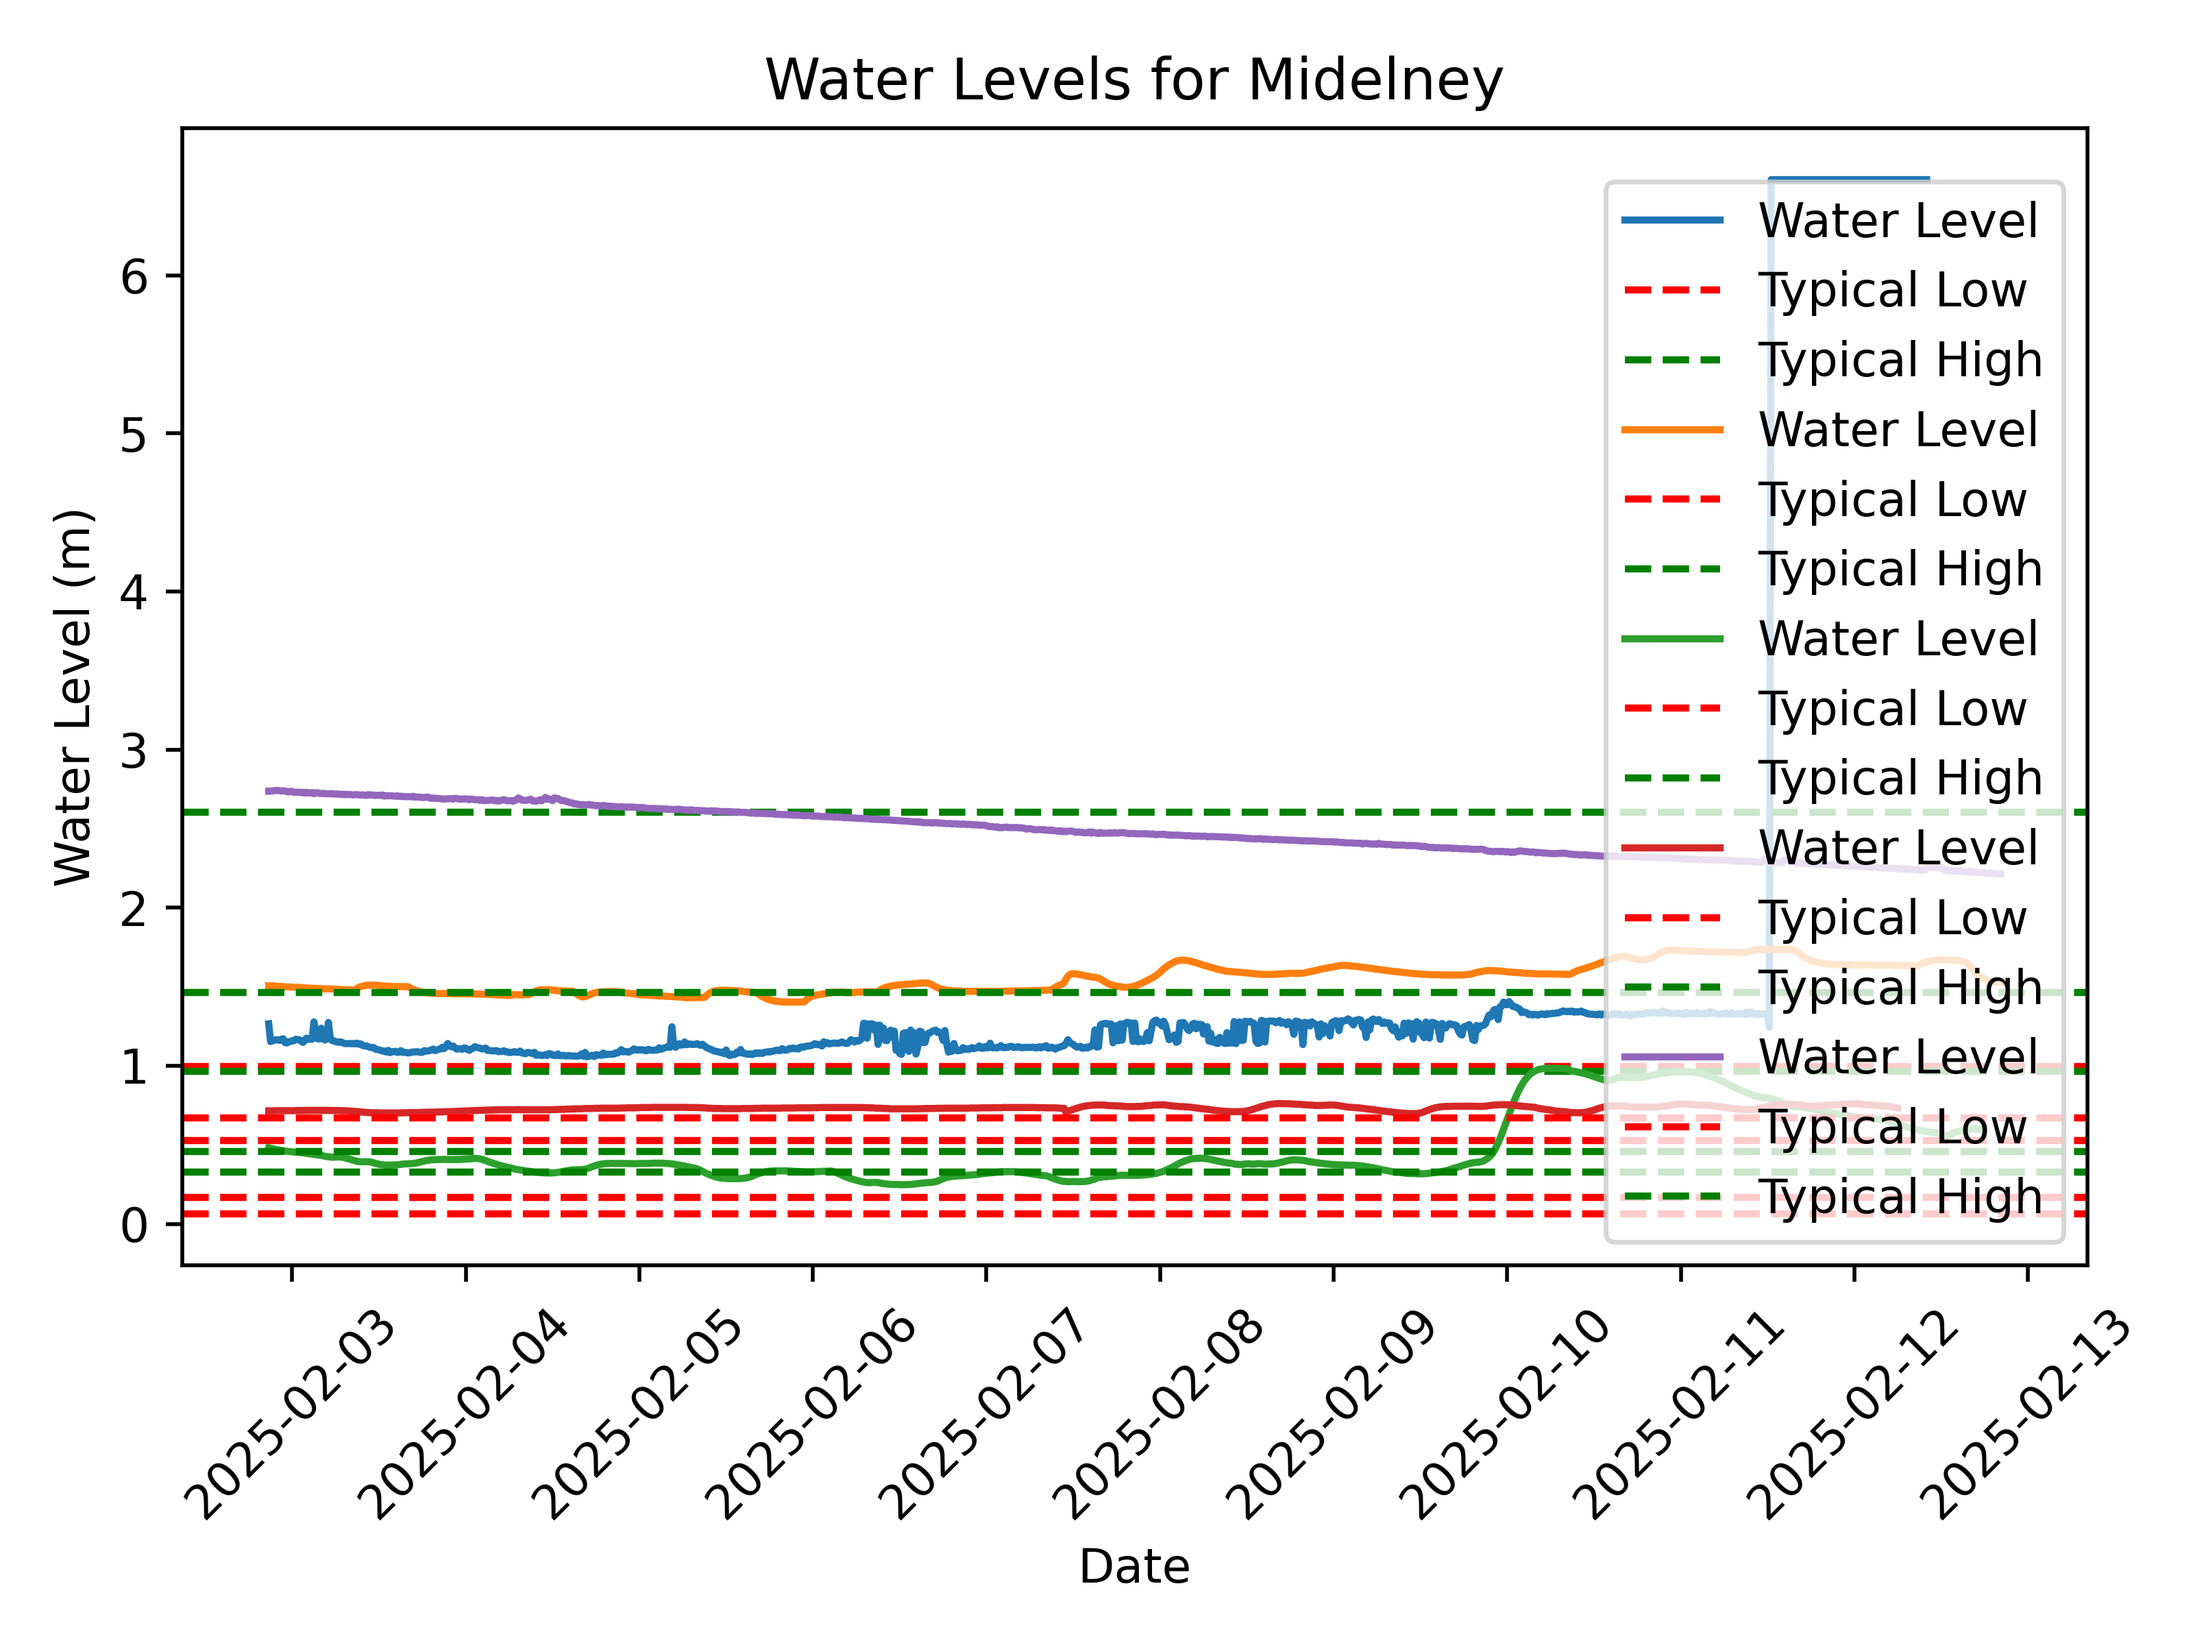
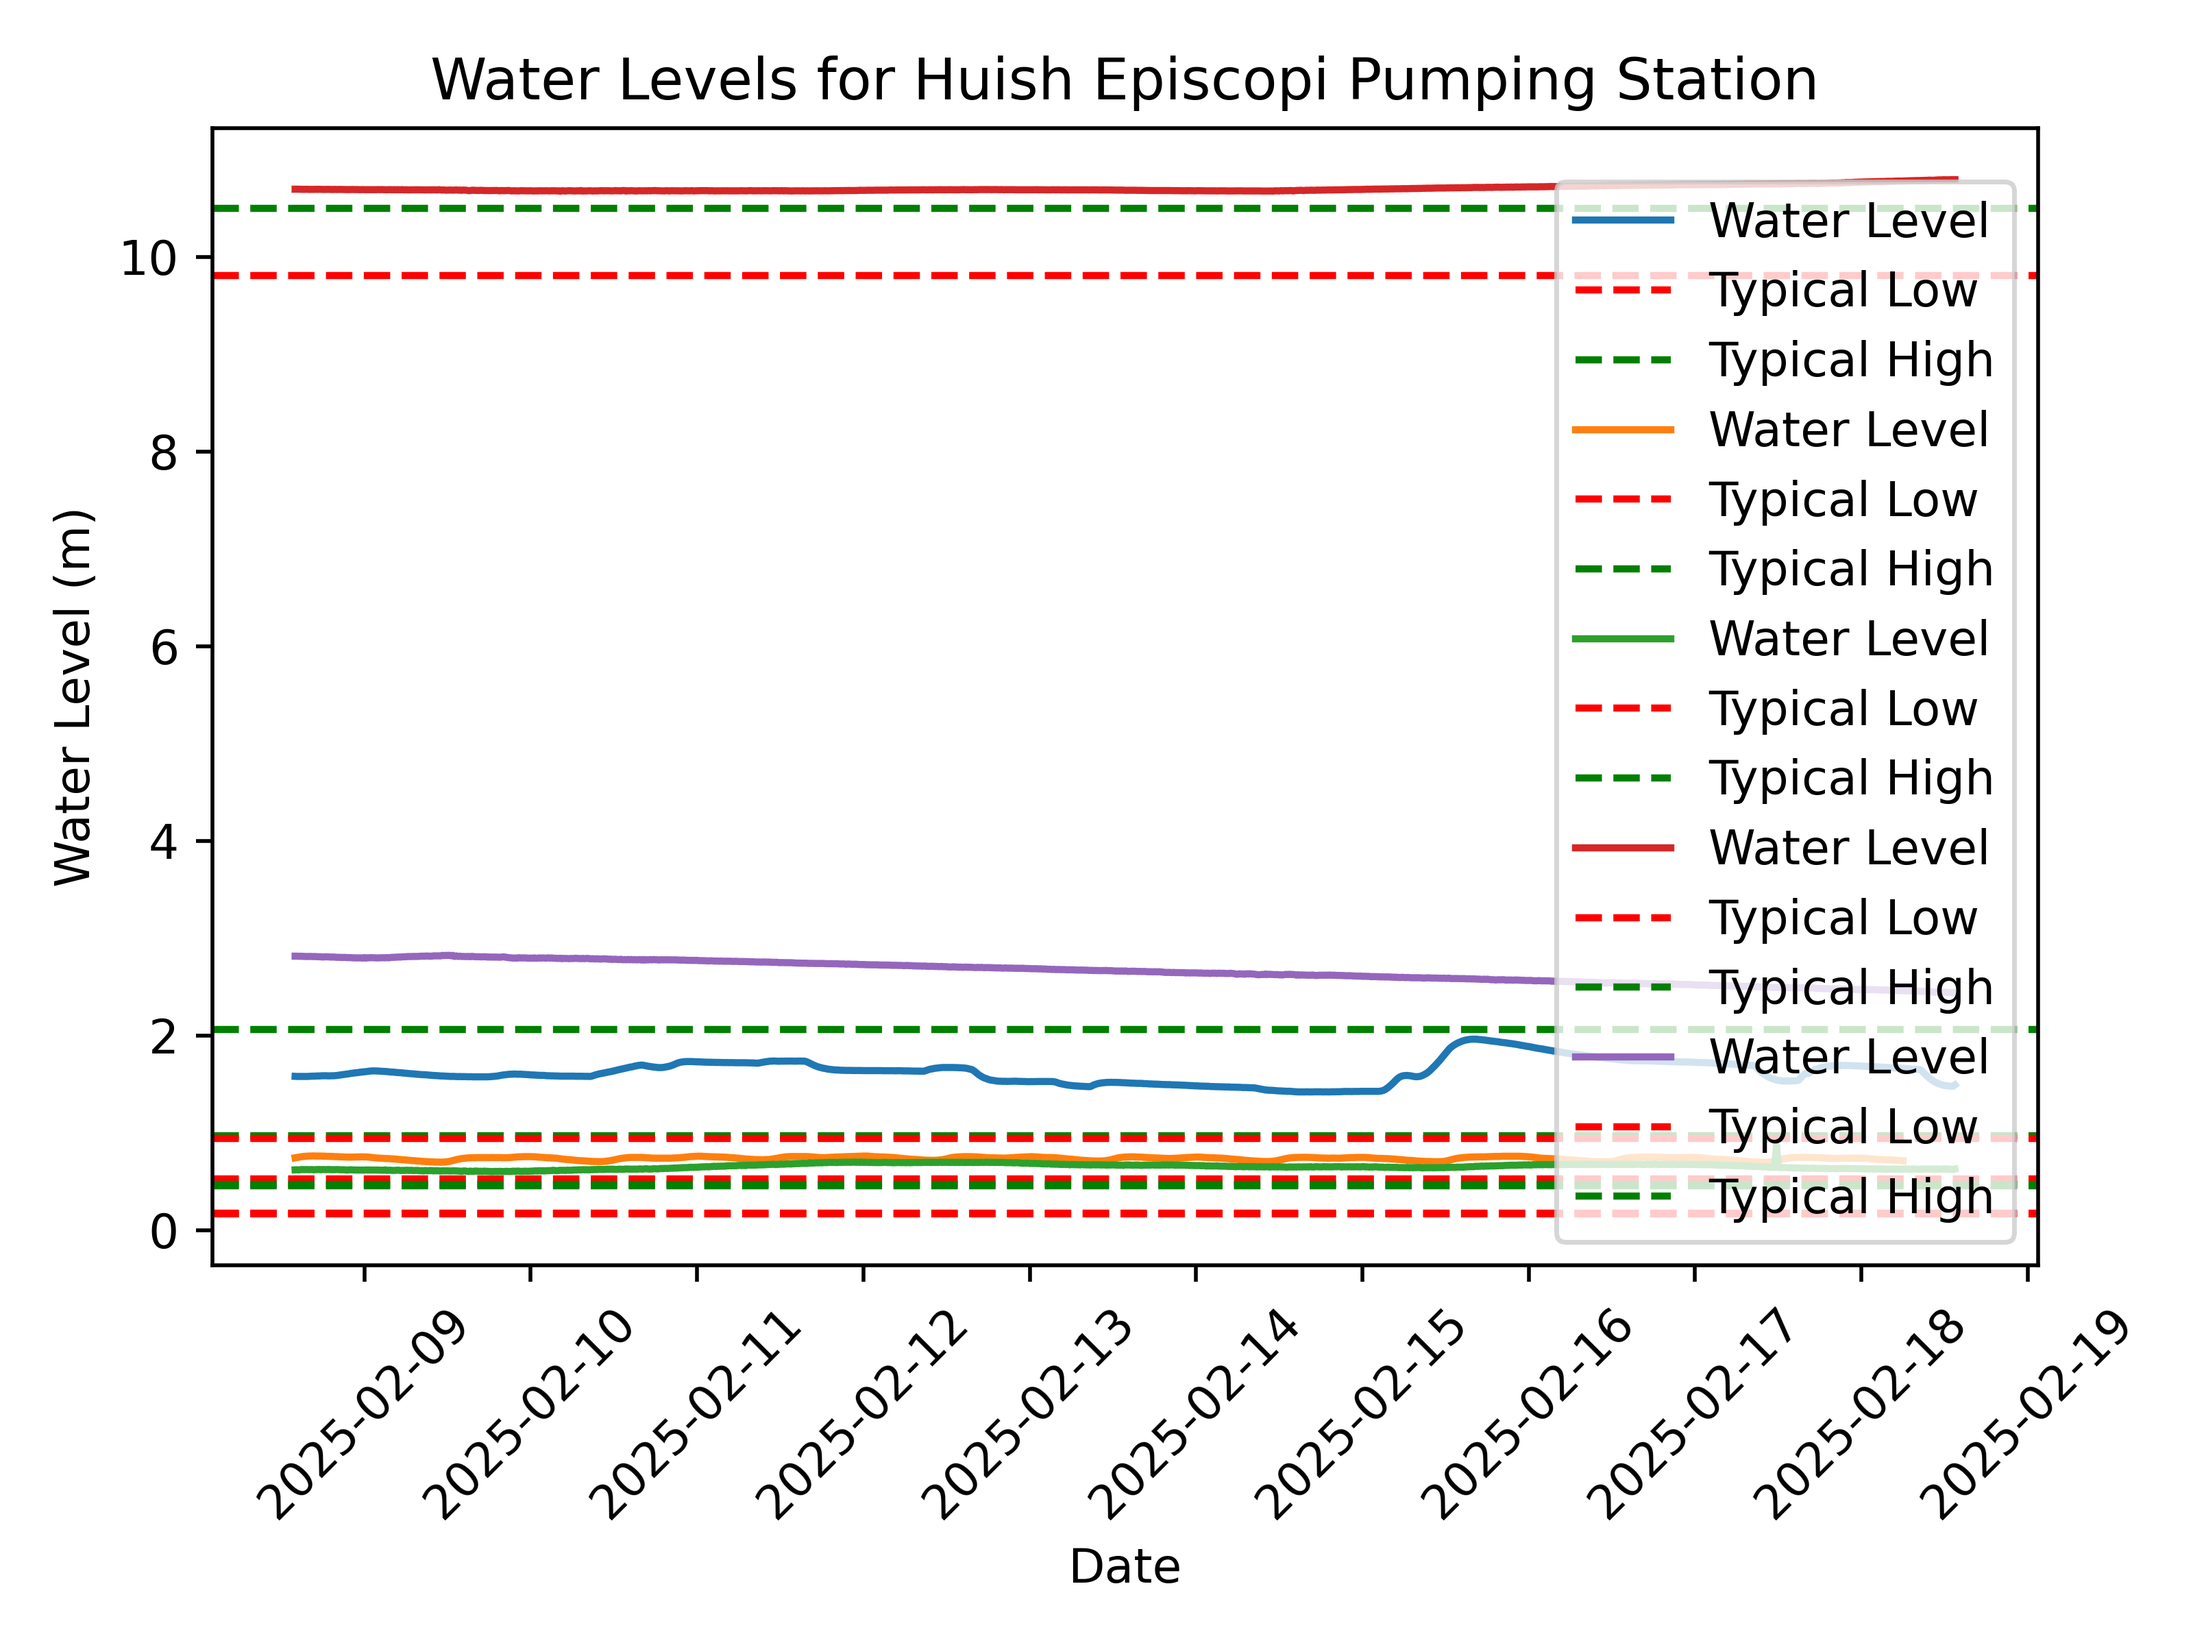
18/02 testing till 2f

diff --git a/Task2F.py b/Task2F.py
@@ -1,82 +1,28 @@
-
-import pandas as pd
-import numpy as np
 import datetime
 from floodsystem.stationdata import build_station_list, update_water_levels
+from floodsystem.flood import stations_highest_rel_level
 from floodsystem.datafetcher import fetch_measure_levels
-
-# Define moving average periods (in days)
-FAST_MA_DAYS = 2   # Short-term moving average (last 2 days)
-SLOW_MA_DAYS = 10  # Long-term moving average (last 10 days)
-
-
-def moving_average(data, window_size):
-    """Compute the simple moving average over the last window_size data points."""
-    if len(data) < window_size:
-        return None  # Not enough data to compute the moving average
-    return np.mean(data[-window_size:])
-
-
-def assess_flood_risk(stations):
-    """Assess flood risk at each station based on moving averages of water levels."""
-    risk_data = []
-
-    for station in stations:
-        # Retrieve water level readings for the past 10 days
-        dt = datetime.timedelta(days=SLOW_MA_DAYS)
-        dates, levels = fetch_measure_levels(station.measure_id, dt)
-
-        if not dates or not levels or len(levels) < SLOW_MA_DAYS:
-            continue  # Skip if insufficient data
-
-        # Compute moving averages
-        fast_ma = moving_average(levels, FAST_MA_DAYS)
-        slow_ma = moving_average(levels, SLOW_MA_DAYS)
-
-        if fast_ma is None or slow_ma is None or slow_ma == 0:
-            continue  # Skip if unable to compute averages
-
-        # Compute ratio of fast to slow moving average
-        ratio = fast_ma / slow_ma
-
-        # Determine risk level based on ratio
-        if ratio > 1.5:
-            risk_level = "Severe"
-        elif ratio > 1.2:
-            risk_level = "High"
-        elif ratio > 0.8:
-            risk_level = "Moderate"
-        else:
-            risk_level = "Low"
-
-        risk_data.append({
-            "Station": station.name,
-            "Town": station.town,
-            "Fast MA": fast_ma,
-            "Slow MA": slow_ma,
-            "Ratio": ratio,
-            "Risk": risk_level
-        })
-
-    # Create a DataFrame for easy sorting and display
-    risk_df = pd.DataFrame(risk_data)
-    risk_df = risk_df.sort_values(by="Ratio", ascending=False)
-    return risk_df
-
+from floodsystem.plot import plot_water_level_with_fit
+from floodsystem.analysis import polyfit
 
 def run():
-    """Run the flood risk assessment and print the top 10 stations most at risk."""
-    # Build the station list and update their latest water levels
     stations = build_station_list(use_cache=True)
     update_water_levels(stations)
 
-    # Assess flood risk based on the moving averages of water levels
-    risk_df = assess_flood_risk(stations)
+    top_stations = stations_highest_rel_level(stations, 5)
+    dt = datetime.timedelta(days=2)
 
-    # Display the top 10 stations with the highest risk ratios
-    print("\nTop 10 Stations Most at Risk of Flooding:")
-    print(risk_df.head(10)[["Station", "Town", "Risk", "Ratio"]])
-
+    for station, _ in top_stations:
+        dates, levels = fetch_measure_levels(station.measure_id, dt)
+        
+        if not dates or not levels:
+            print(f"No data for {station.name}")
+            continue
+        
+        poly, d0 = polyfit(dates, levels, 4)
+        plot_water_level_with_fit(station, dates, levels, poly, d0)
 
 if __name__ == "__main__":
+    print("*** Task 2F: CUED Part IA Flood Warning System ***")
     run()
+    

diff --git a/Task2G.py b/Task2G.py
@@ -1,0 +1,23 @@
+from floodsystem.flood_warnings import assess_flood_risk
+from floodsystem.stationdata import build_station_list, update_water_levels
+
+def run():
+    """Run flood risk assessment using a momentum quant approach."""
+    
+    # Fetch station data and update water levels
+    stations = build_station_list(use_cache=True)
+    update_water_levels(stations)
+
+    # Assess flood risk
+    risk_df = assess_flood_risk(stations)
+
+    # Print results
+    print("Top 10 Towns with Highest Flood Risk:")
+    print(risk_df.head(10))
+
+    # Save to CSV
+    #risk_df.to_csv("flood_risk.csv", index=False)
+
+if __name__ == "__main__":
+    print("*** Task 2G: CUED Part IA Flood Warning System ***")
+    run()

diff --git a/floodsystem/flood_warnings.py b/floodsystem/flood_warnings.py
@@ -6,7 +6,7 @@ from stationdata import build_station_list, update_water_levels
 
 # Define moving average periods
 short_window = 2  # Fast MA (e.g., last 2 days)
-long_window = 10  # Slow MA (e.g., last 10 days)
+long_window = 3  # Slow MA (e.g., last 10 days)
 
 def moving_averages(water_levels, dates):
     """Calculate short-term and long-term moving averages for water levels."""

diff --git a/Task2E.py b/Task2E.py
@@ -24,4 +24,5 @@ def run():
         plot_water_levels(station, dates, levels)
 
 if __name__ == "__main__":
+    print("*** Task 2E: CUED Part IA Flood Warning System ***")
     run()
